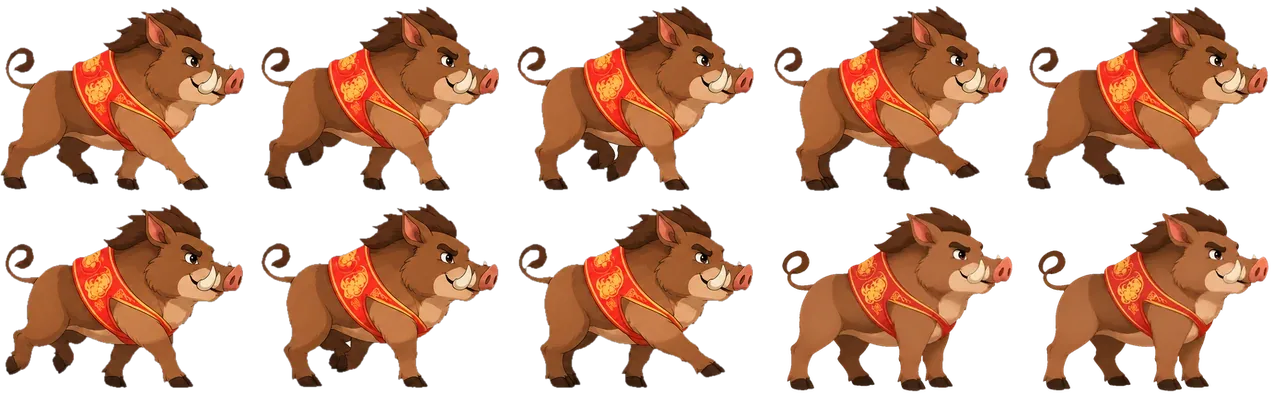
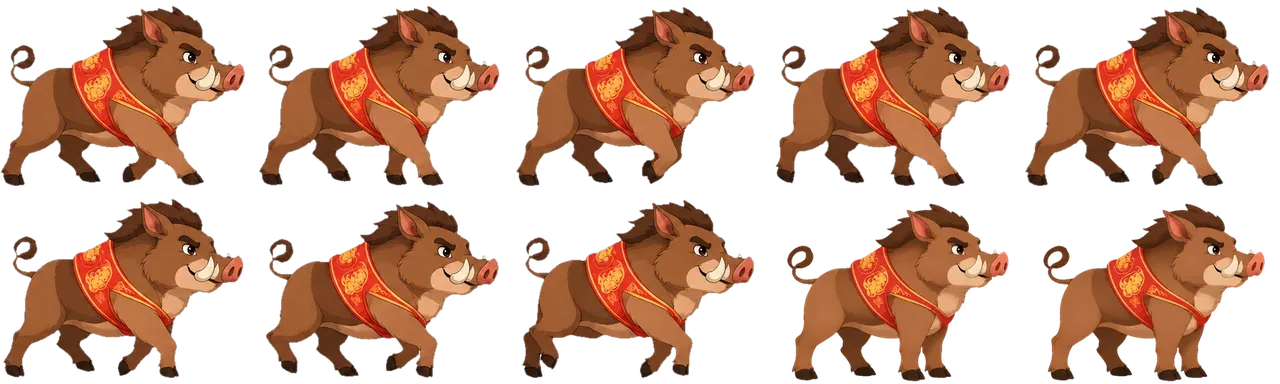
Thú bốn chân: dựng dáng bước bằng sơ đồ xương tính bằng toán (chân trượt đều rồi nhấc vung)
Lớp lỗi: mô hình ảnh vẽ chân ở vài vị trí gần như cố định (đo bàn chân chó: -0,42 / -0,28 / 0 / +0,33 qua cả 8 khung) nên chân chỉ
nhấc lên đặt xuống tại chỗ, không có pha trượt từ trước ra sau. Mô tả bằng lời không đủ để giữ biên độ.

- que.py: sơ đồ xương 8 khung: chân chạm đất trượt ĐỀU từ trước ra sau (62,5% chu kỳ), rồi nhấc và vung về trước; cùng bên cùng pha, hai bên lệch nửa vòng;
  chiều dài chân và biên độ sải theo từng con.
- Đưa sơ đồ cùng ảnh nhân vật cho /v1/images/edits và yêu cầu vẽ đúng từng tư thế; chân xa sẫm hơn cùng tông lông (không xám).
- Lọc vệt xanh dương của sơ đồ lọt vào ảnh (trâu) trước khi cắt.
- Trâu, hổ, mèo, dê, chó, heo; ngưỡng test vùng chân 0,66 (heo chân ngắn).

Claude-Session: https://claude.ai/code/session_01RuPofRMvzvZPPPoDv3dRha

diff --git a/tests/test_nhap_va_lich.py b/tests/test_nhap_va_lich.py
@@ -124,7 +124,7 @@ def _iou(a, b):
 def test_chu_ky_buoc_co_dong_tac_that(khoa):
     """Lớp lỗi từng xảy ra: sprite 12 khung do AI vẽ có chân gần như đứng yên (bàn chân cố định qua cả chu kỳ),
     nên làm chậm hay nhanh đều không giống bước đi. Đo trên dữ liệu thật: hai khung khác nhau nhất trong chu kỳ
-    phải có dáng chân KHÁC nhau rõ (IoU vùng chân ≤ 0,62 với con có chân); rắn/rồng phải có sóng uốn khác pha."""
+    phải có dáng chân KHÁC nhau rõ (IoU vùng chân ≤ 0,66 với con có chân; heo chân ngắn đo được 0,63, sprite đứng yên cho 0,8–0,9); rắn/rồng phải có sóng uốn khác pha."""
     im = Image.open(THU / f"{khoa}.webp")
     f = [_khung(im, i) for i in range(10)]
     h = f[0].shape[0]
@@ -133,7 +133,7 @@ def test_chu_ky_buoc_co_dong_tac_that(khoa):
     else:
         chan = lambda m: m[int(h * 0.65):, :]    # vùng chân: 35% dưới của khung
         gan_nhat = min(_iou(chan(f[i]), chan(f[j])) for i in range(8) for j in range(i + 1, 8))
-        assert gan_nhat <= 0.62, "trong cả chu kỳ không có hai khung nào chân khác nhau rõ: chân gần như đứng yên"
+        assert gan_nhat <= 0.66, "trong cả chu kỳ không có hai khung nào chân khác nhau rõ: chân gần như đứng yên"
         assert _iou(chan(f[8]), chan(f[0])) <= 0.90, "tư thế đứng nghỉ giống hệt tư thế bước"
 
 

diff --git a/README.md b/README.md
@@ -24,7 +24,7 @@ Xé tờ (nhấc mép, lật bay lên để lộ tờ ngày hôm sau) và lật 
 <p align="center"><img src="docs/anh/xe-to.webp" alt="Các mốc xé tờ"></p>
 <p align="center"><img src="docs/anh/lat-thang.webp" alt="Các mốc lật tháng"></p>
 
-Mười hai con giáp, mỗi con một sprite 10 khung: 8 khung của một chu kỳ bước thật (chạm đất, hạ thấp, chân chụm, nhấc cao, rồi lặp lại với chân kia dẫn trước; chân và tay phía xa vẽ sẫm hơn nên thấy rõ các chân luân phiên; thú bốn chân đi nhịp so le, mỗi chân lệch pha một phần tư vòng nên bốn bàn chân luôn ở bốn chỗ khác nhau; ngựa phi có pha gom chân; rắn và rồng uốn sóng từ đầu về đuôi) cùng 2 khung đứng nghỉ:
+Mười hai con giáp, mỗi con một sprite 10 khung: 8 khung của một chu kỳ bước thật (chạm đất, hạ thấp, chân chụm, nhấc cao, rồi lặp lại với chân kia dẫn trước; chân và tay phía xa vẽ sẫm hơn nên thấy rõ các chân luân phiên; thú bốn chân hai chân cùng bên bước cùng nhau, bên kia ngược pha; dáng bước được tính bằng toán (chân chạm đất trượt đều từ trước ra sau rồi nhấc vung về trước) và dùng làm sơ đồ xương cho mô hình vẽ; ngựa phi có pha gom chân; rắn và rồng uốn sóng từ đầu về đuôi) cùng 2 khung đứng nghỉ:
 
 <p align="center"><img src="docs/anh/12-con-giap.webp" alt="Mười hai con giáp"></p>
 
